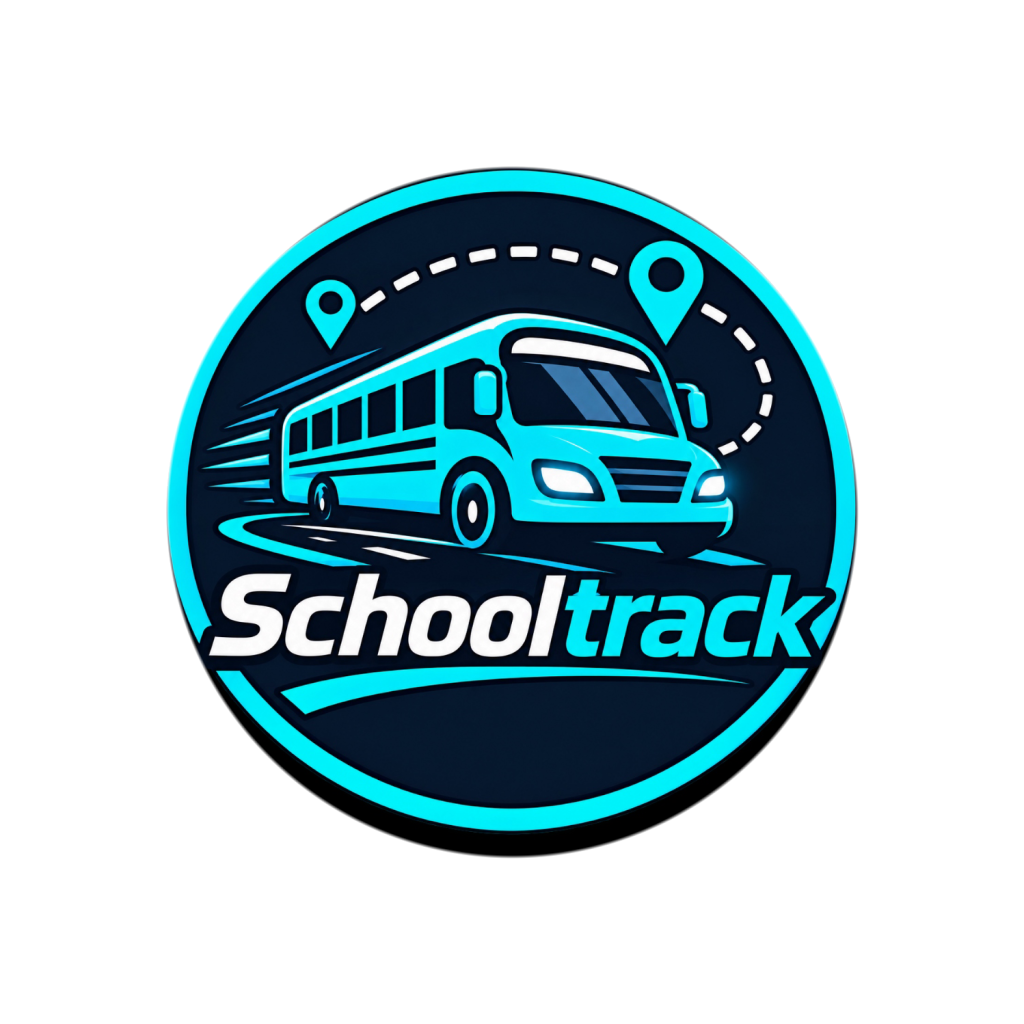
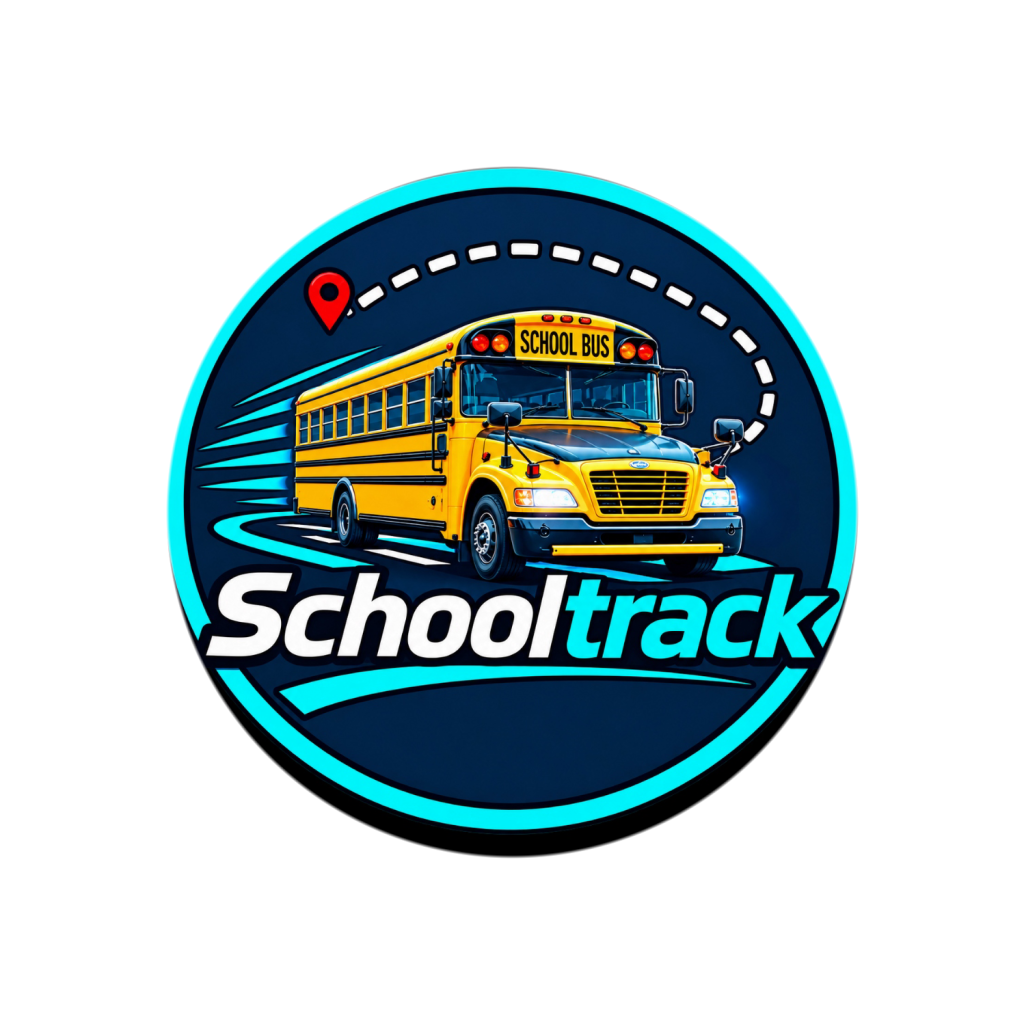
logo_esteyya

Changed region(s): [[0.1562, 0.1562, 0.8438, 0.8125]]

diff --git a/scripts/process-icons.js b/scripts/process-icons.js
@@ -2,11 +2,11 @@ const fs = require('fs');
 const path = require('path');
 const Jimp = require('jimp-compact');
 
-const userUploadedPath = 'C:/Users/KAROL CAICEDO/.gemini/antigravity/brain/c2e34348-455f-483e-b0ab-89640a87b3d7/.user_uploaded/media_1794701956248_cedf16fa.jpg';
+const userUploadedPath = 'C:/Users/KAROL CAICEDO/.gemini/antigravity/brain/c2e34348-455f-483e-b0ab-89640a87b3d7/.user_uploaded/media_1794799589813_ac1da290.jpg';
 const assetsDir = path.resolve(__dirname, '../assets/images');
 
 async function processIcons() {
-  console.log('Loading source image...');
+  console.log('Loading new source image...');
   const img = await Jimp.read(userUploadedPath);
   const w = img.bitmap.width;
   const h = img.bitmap.height;
@@ -56,7 +56,18 @@ async function processIcons() {
   await bg.writeAsync(bgPath);
   console.log('Created:', bgPath);
 
-  // 5. Update Android native mipmaps if android/ exists
+  // 5. Save splash-icon.png
+  const splashPath = path.join(assetsDir, 'splash-icon.png');
+  await transparentImg.writeAsync(splashPath);
+  console.log('Created:', splashPath);
+
+  // 6. Save favicon.png
+  const favicon = transparentImg.clone().resize(48, 48);
+  const faviconPath = path.join(assetsDir, 'favicon.png');
+  await favicon.writeAsync(faviconPath);
+  console.log('Created:', faviconPath);
+
+  // 7. Update Android native mipmaps if android/ exists
   const resDir = path.resolve(__dirname, '../android/app/src/main/res');
   if (fs.existsSync(resDir)) {
     const densities = [
@@ -87,7 +98,7 @@ async function processIcons() {
     }
   }
 
-  console.log('Done generating all logo and icon assets!');
+  console.log('Done generating all new logo and icon assets!');
 }
 
 processIcons().catch((err) => {
